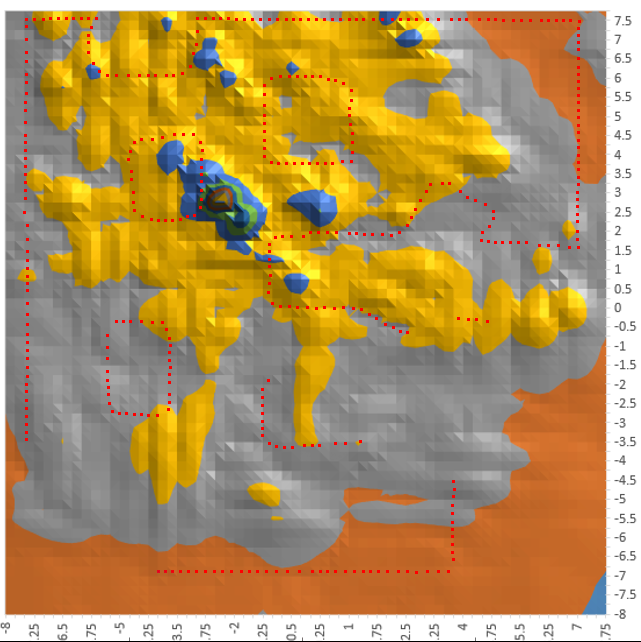
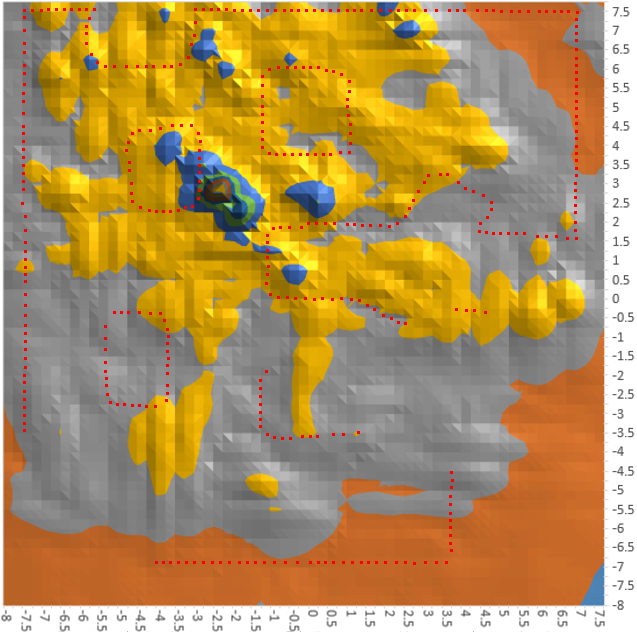
Fixed issues in images, re-structured report, fixes various issues in graphs

diff --git a/report/report.tex b/report/report.tex
@@ -52,15 +52,18 @@
 % \renewcommand*{\lstlistlistingname}{List of Listings}
 \lstlistoflistings
 \begin{itemize}
+	\item LiDar: Light Direction and Ranging (sensor)
 	\item ICP: Iterative Closest Point algorithm
 	\item NDT: Normal distribution transform
 	\item EA: Evolutionary Algorithm
+	\item GA: Genetic Algorithm
 	\item PSM: Polar Scan matching
 	\item HSM: histogram scan matching
 	\item PCA: Principal Component Analysis
 	\item GLASM: Genetic Lookup based Algorithm for Scan Matching
 	\item h-GLASM: Hybrid Genetic Lookup Based Algorithm for Scan Matching
 	\item DGA: Dynamic Genetic Algorithm
+
 	% TODO expand list of listings
 \end{itemize}
 
@@ -342,21 +345,50 @@ An existing GA by \citet{Robertson2002-ou} was adapted as a benchmark algorithm 
 \label{sec:fitness_landscape}
 The fitness function utilised by \citet{Robertson2002-ou} is a minimisation of the sum of the minimal distance of every point in the scan to its closest point in the reference map: $E = \sum_i |S_i-M_I|$ where S is a $(x,y)$ point in the scan and M is S's closest point in the map. This was altered for our benchmark algorithm; a function maximisation problem was defined instead, using $M = \frac{1}{1+E}$ as our new fitness function. This provides a more accentuated curve of fitness in the hope of improving the convergence capabilities of both the benchmark and new algorithm, in addition to adhering to the standard for GA's established by \citet{Eiben2015-de}.
 
-To ensure the fitness function's global maxima matches our scan location, the function was evaluated across a set of poses which blanket the map. The maximal fitness value at a given X/Y coordinate (across all tested rotations) was graphed in the charts below, demonstrating that the algorithm's peaks roughly matches the target pose for that scan (given the resolution of the set of poses); this demonstrates that the algorithm's fitness will be proportional to the pose's precision, and therefore should allow the GA to evolve towards the correct pose. This is visualised in \autoref{fig:landscape}, where scan110 was evaluated at various poses and angles, and the maximal fitness for any rotation at a position (x,y) was plotted.
+To ensure the fitness function's global maxima matches our scan location, the function was evaluated across a set of poses which blanket the map. The maximal fitness value at a given X/Y coordinate (across all tested rotations) was graphed in the charts below, demonstrating that the algorithm's peaks roughly matches the target pose for that scan (given the resolution of the set of poses); this demonstrates that the algorithm's fitness will be proportional to the pose's precision, and therefore should allow the GA to evolve towards the correct pose. This is visualised in \autoref{fig:landscape_overlay}, where scan110 was evaluated at various poses and angles, and the maximal fitness for any rotation at a position (x,y) was plotted. The presence of a single clear global optima across various scans in the dataset is demonstrated in \autoref{fig:landscapes}, where the same method was applied to a variety of other scans; these further demonstrate the matching of the scan's pose with the global maxima of the fitness landscape. 
 
 \begin{figure}[ht]
 \centering
-	\includegraphics[width=9cm,keepaspectratio]{images/landscape_overlay.png}
-	\caption{Fitness maxima corresponding to the position from where the scan was taken. The blue peaks mark areas with low error, where points in scan 110 and the map's points (in red) are closely coupled. (see \autoref{fig:scan110} for scan and pose positions)}
-	\label{fig:landscape}
+	\includegraphics[width=7cm,keepaspectratio]{images/landscape_overlay.png}
+	\caption{Overlay of the fitness landscape over the reference data map. The green-orange peak (at approx (-2,2.5)) mark areas with low error, where points in scan 110 and the map's points (in red) are closely coupled. (see \autoref{fig:scan110} for scan and pose positions)}
+	\label{fig:landscape_overlay}
 \end{figure}
+
+\begin{figure*}[ht]
+        \centering
+        \begin{subfigure}[b]{0.475\textwidth}
+            \centering
+            \includegraphics[width=\textwidth]{images/landscape18.png}
+            {{\small Scan 18}}    
+        \end{subfigure}
+        \hfill
+        \begin{subfigure}[b]{0.475\textwidth}  
+            \centering 
+            \includegraphics[width=\textwidth]{images/landscape110.png}
+            {{\small Scan 110}}    
+        \end{subfigure}
+        \vskip\baselineskip
+        \begin{subfigure}[b]{0.475\textwidth}   
+            \centering 
+            \includegraphics[width=\textwidth]{images/landscape115.png}
+            {{\small Scan 115}}    
+        \end{subfigure}
+        \quad
+        \begin{subfigure}[b]{0.475\textwidth}   
+            \centering 
+            \includegraphics[width=\textwidth]{images/landscape240.png}
+            {{\small Scan 240}}    
+        \end{subfigure}
+        \caption{Fitness landscapes for randomly selected scans in dataset.}
+        \label{fig:landscapes}
+\end{figure*}
 
 \section{Parameter optimisation}
 \subsection{Population \& Generations}
 As expected, allowing the algorithm to evolve a larger population with/or for a larger number of generations provides improvements to the fitness of the solution provided. However, these require an impractically large amount of computational power: as we can see in \autoref{fig:ga_pop_gen}, a simple evolution of 50 generations with a population of 50 requires an average 37 seconds, on a 16 core machine. As the computational power requirements increase linearly with the number of generations and population size, these would become prohibitively expensive to run in a real time environment. As such, evaluating algorithms using a small population and number of generations will also present a difficult challenge for algorithms, allowing the difference in convergence speeds to be accentuated, whilst also enabling us to run our experiments in a timely manner to compare algorithms. 
 \begin{figure}[ht]
 \centering
-	\includegraphics[width=\textwidth,keepaspectratio]{images/ga_pop_gen_sweep.png}
+	\includegraphics[width=0.4\textwidth,keepaspectratio]{images/ga_pop_gen_sweep.png}
 	\caption{Execution time of the benchmark GA using scan110 and various number of generations and population sizes. (see \autoref{fig:scan110} for scan and pose positions)}
 	\label{fig:ga_pop_gen}
 \end{figure}
@@ -367,7 +399,7 @@ The mutation and crossover probabilities for our benchmark were found using 60 p
 
 \begin{figure}[ht]
 \centering
-	\includegraphics[width=8cm,keepaspectratio]{images/ga_cxpb_mutpb.png}
+	\includegraphics[width=\textwidth,keepaspectratio]{images/ga_cxpb_mutpb.png}
 	\caption[Optimising cross and mutation rate for benchmark algorithm.]{Effects of crossover and mutation rates on the benchmark algorithm's execution time.}
 	\label{fig:ga_cxpb_mutpb}
 \end{figure}
@@ -390,12 +422,13 @@ The size of the mutation was defined as a random sample from a normal distributi
 	        xtick=data,
 	        % xticklabels from table={\datatableelitemutsize}{mutsize},
 	        xticklabel style={rotate=45},
-	        width  = 0.8\textwidth,
+	        width  = 0.6\textwidth,
 	        height = 3cm,
 	        ylabel = {Combined error},
 	        xlabel = {Squared variance of standard distribution from which step sizes are drawn.},
 	        ymin=0,
 	        xmin=0.2,
+	        xmax=2.2,
 	        ymajorgrids=true,
 	        % xmax=1.4,
 	        % grid=both,
@@ -423,7 +456,7 @@ The algorithm aims to achieve the goals defined here through a series of indepen
 
 \section{Elitism selection}
 \label{subsec:elitism_sel}
-As seen in the 3D charts of the fitness landscapes seen in \autoref{fig:landscape}, the fitness of our solutions evolve in a smooth landscape, generally with a significantly larger global maxima. We hypothesised that this would allow us to utilise highly convergent forms of GAs; this was on the assumption that our population was large enough to place one or more individuals in an area such that the individual's local maxima was the global maxima. This individual would then be more likely to have a higher fitness than the rest of the population (due to the smooth fitness landscape), and therefore a high rate of duplication and mutation would enable an evolution towards the global maxima. The concept is built on \citet{David_E_Goldberg1991-es}'s solution to balancing the conflict between exploration and exploitation through higher growth ratios followed by building block discovery through mutation; we however diverge from this by instead utilising mutation to optimise our current local maxima (i.e: block) and assume our initial population was sufficiently dense and spread across the map to find all local maximas.
+As seen in the 3D charts of the fitness landscapes seen in \autoref{fig:landscape_overlay}, the fitness of our solutions evolve in a smooth landscape, generally with a significantly larger global maxima. We hypothesised that this would allow us to utilise highly convergent forms of GAs; this was on the assumption that our population was large enough to place one or more individuals in an area such that the individual's local maxima was the global maxima. This individual would then be more likely to have a higher fitness than the rest of the population (due to the smooth fitness landscape), and therefore a high rate of duplication and mutation would enable an evolution towards the global maxima. The concept is built on \citet{David_E_Goldberg1991-es}'s solution to balancing the conflict between exploration and exploitation through higher growth ratios followed by building block discovery through mutation; we however diverge from this by instead utilising mutation to optimise our current local maxima (i.e: block) and assume our initial population was sufficiently dense and spread across the map to find all local maximas.
 	
 This represented a form of elitism, where the top n percentile of the population was retained at each generation and duplicated into offspring, which increase the genetic diversity via crossover or mutation according to a set probability. \citet{T_Back_D_B_Fogel_T_Michalewicz} and \citet{Shapiro1992-qm} describe an accurately similar algorithm known as the $(\mu + \lambda)$  algorithm.
 
@@ -559,7 +592,7 @@ This produced the data visible in \autoref{fig:ga_vs_elite_box_whiskers}; as we 
 \begin{figure}
 	\begin{tikzpicture}
 		\begin{axis}
-		[height=4cm, width=0.8\textwidth, ytick={1,2}, yticklabels={Elite, Benchmark}, xlabel={Combined error $\times$ execution time}]
+		[height=4cm, width=0.8\textwidth, ytick={1,2}, yticklabels={Elite, Benchmark}, xlabel={Combined error $\times$ execution time}, xmode=log]
 
 		\addplot+[
 			boxplot prepared={
@@ -604,12 +637,12 @@ We can also notice that the precision per time unit seems to increase as we prov
 	        % bar shift=0pt,
 	        grid=both,
 	        width  = \textwidth,
-	        height = 5cm,
+	        height = 8cm,
 	        ylabel = {Execution time $\times$ combined error},
 	        xlabel = {Real execution time (s)},
 	        % scaled y ticks = false,
 	        legend pos = north west,
-	        ymax=450,
+	        ymax=300,
 	        ymin=0,
 	    ]
 	    \addplot+[fill opacity=0.75] table [col sep=comma, x expr=\coordindex, y=elite_errortime, fill opacity=0.5] {data/ga_vs_elite/time_limited_buckets.csv};
@@ -625,9 +658,9 @@ We can also notice that the precision per time unit seems to increase as we prov
 	        xticklabels from table={\datatable}{bucket},
 	        xticklabel style={rotate=45, opacity=0.0},
 	        width  = \textwidth,
-	        height = 5cm,
+	        height = 8cm,
 	        ylabel = {Combined error},
-	        ymax=12,
+	        ymax=7.5,
 	        ymin=0,
 	    ]
 	    \addplot+table [col sep=comma, x expr=\coordindex, y=elite_error] {data/ga_vs_elite/time_limited_buckets.csv};
@@ -653,7 +686,7 @@ Whilst the benchmark algorithm has an equally large worst case, we can hypothesi
 
 \begin{figure}
 \centering
-	\includegraphics[width=4cm,keepaspectratio]{images/grid.png}
+	\includegraphics[width=8cm,keepaspectratio]{images/grid.png}
 	\caption{A grid based initial population}
 	\label{fig:grid_init}
 \end{figure}
@@ -748,35 +781,35 @@ We should additionally note that while the feature was envisioned using a grid-l
 \begin{figure}
 	\begin{tikzpicture}
 		\begin{axis}
-		[height=4cm, width=0.8\textwidth, ytick={1,2, 3}, yticklabels={Grid, Elite, Benchmark}, xlabel={Combined error $\times$ execution time}]
+		[height=4cm, width=0.8\textwidth, ytick={1,2, 3}, yticklabels={Grid, Elite, Benchmark}, xlabel={Combined error $\times$ execution time}, xmode=log]
 
 		\addplot+[
 			boxplot prepared={
 				median = 0.318204416,
-				upper quartile =  0.853609313,
-				lower quartile =  0.101603705,
 				upper whisker = 131.3713864,
 				lower whisker = 0.001041047,
+				upper quartile =  0.853609313,
+				lower quartile =  0.101603705,
 			},
 		] coordinates {};	
 
 		\addplot+[
 			boxplot prepared={
 				median = 1.833061726,
-				upper quartile =  63.10291318,
-				lower quartile =  0.247805344,
 				upper whisker =  1053.747935,
 				lower whisker = 0.00002342,
+				upper quartile =  63.10291318,
+				lower quartile =  0.247805344,
 			},
 		] coordinates {};
 
 		\addplot+[
 			boxplot prepared={
 				median = 12.96005,
-				upper quartile = 2191.115,
-				lower quartile = 0.000319,
-				upper whisker = 82.40675,
-				lower whisker = 2.282475,
+				upper whisker = 2191.115,
+				lower whisker = 0.000319,
+				upper quartile = 82.40675,
+				lower quartile = 2.282475,
 			},
 		] coordinates {};
 		\end{axis}
@@ -790,22 +823,8 @@ As such, 'primed' populations of individuals are hugely beneficial to the evolut
 
 
 
-% Evaluate over large dataset, measure success rate?
-
-\chapter{Experimental summary \& Conclusion}
-This report has examined the effects of elitist selection and population priming on the precision and computational time of genetic algorithms, within the context of indoor localisation using Cartesian data. Experiments detailing the variations in result accuracy, precision and computational efficiency were conducted using a feature-dense scan from \citet{Lenac2011-co}, providing a complex comparison between algorithms.
-
-\section{Elitist selection}
-As summarised in \autoref{fig:ga_vs_elite_bucket}, our first experiment showed that a large improvement in efficiency could be obtained from elitist algorithms when executing the algorithm for a larger number of generations than a low threshold; this allowed the poses to be sufficiently refined via incremental mutation. The elite algorithm was ineffective when unable to evolve for fewer generations, as the lack of a crossover mutation limited the distance covered by generation-iterative random walking. This could be amended by priming the population of individuals or utilising larger mutation sizes, as explored in the grid initialisation experiments and variable mutation rate experiment.
-
-\section{Grid-based initial populations}
-The grid-initialisation aimed to improve the global search of the elitist algorithm without significantly increasing the computational requirements of the algorithm. This was achieved by using a larger initial population of candidate poses, evenly distributed over the map. Following a single generation with this larger population, the subsequent evolution took place on the 50 best individuals from that generation (as selected by the fitness function). This resulted in an improved precision, as it increased the likelihood of an individual in the initial population being placed within close proximity of a global maxima (towards which it can mutate). In combination with a small increase in computational time, this lead to a more efficient algorithm across all execution times (as visible in \autoref{fig:grid_vs_elit}). We can safely assume that this would require slightly more memory, due to the increased codebase and larger initial population; this may impede it's implementation in resource-limited systems. 
-
-As previously cited in \autoref{subsec:ICP}, \citet{Censi2005-iv} states that it would be possible to apply a 'classical' algorithm to a global pose localisation problem by running it from a number of random poses. This would rely on the assumption that one of these random poses has a local maxima which is the global maxima; that is, it will be capable of using gradient ascent to refine it's pose, similarly to the methodology implemented by grid-based initialisation. However, ICP remains an extremely efficient algorithm, whilst the mutation-based refinement of a genetic algorithm is more similar to a random walk than a hill climbing algorithm. We have therefore opted to create a basic implementation of an ICP-based algorithm to demonstrate this.
-
-
 % TODO move to section prior to evaluation, improve description of ICP algorithm
-\subsection{ICP algorithm design \& evaluation}
+\chapter{ICP algorithm design \& evaluation}
 \label{subsec:icp_benchmark}
 An ICP algorithm \cite{Harry_undated-ea} was adapted for use with our grid-layout algorithm. It functioned by running 20 iterations of the ICP algorithm from 200 hypothetical poses laid across a grid on the map. The pose with the lowest error is then selected using the same error function used in the fitness metric for the GA's. This was executed 360 times to create a set of data comparable to the grid-based algorithm's dataset (which was created using 30 runs over 12 target durations), which was illustrated in \autoref{fig:icp_vs_grid_box_whiskers}. 
 
@@ -825,20 +844,20 @@ We will explore the reasons behind this gap in \autoref{sec:algorithm_limitation
 		\addplot+[
 			boxplot prepared={
 				median = 0.318204416,
-				upper quartile =  0.853609313,
-				lower quartile =  0.101603705,
 				upper whisker = 131.3713864,
 				lower whisker = 0.001041047,
+				upper quartile =  0.853609313,
+				lower quartile =  0.101603705,
 			},
 		] coordinates {};	
 
 		\addplot+[
 			boxplot prepared={
 				median = 1.236822,
-				upper quartile = 68.64869,
-				lower quartile = 0.001034,
-				upper whisker = 5.075329,
-				lower whisker = 0.110132,
+				upper whisker = 68.64869,
+				lower whisker = 0.001034,
+				upper quartile = 5.075329,
+				lower quartile = 0.110132,
 			},
 		] coordinates {};
 		\end{axis}
@@ -846,6 +865,23 @@ We will explore the reasons behind this gap in \autoref{sec:algorithm_limitation
 	\caption[Global-ICP performance against Grid Initialisation] {Performance of each algorithm over 30 executions for 12 time limits (note: x axis is logarithmic)}
 	\label{fig:icp_vs_grid_box_whiskers}
 \end{figure}
+
+
+% Evaluate over large dataset, measure success rate?
+
+\chapter{Experimental summary \& Conclusion}
+This report has examined the effects of elitist selection and population priming on the precision and computational time of genetic algorithms, within the context of indoor localisation using Cartesian data. Experiments detailing the variations in result accuracy, precision and computational efficiency were conducted using a feature-dense scan from \citet{Lenac2011-co}, providing a complex comparison between algorithms.
+
+\section{Elitist selection}
+As summarised in \autoref{fig:ga_vs_elite_bucket}, our first experiment showed that a large improvement in efficiency could be obtained from elitist algorithms when executing the algorithm for a larger number of generations than a low threshold; this allowed the poses to be sufficiently refined via incremental mutation. The elite algorithm was ineffective when unable to evolve for fewer generations, as the lack of a crossover mutation limited the distance covered by generation-iterative random walking. This could be amended by priming the population of individuals or utilising larger mutation sizes, as explored in the grid initialisation experiments and variable mutation rate experiment.
+
+\section{Grid-based initial populations}
+The grid-initialisation aimed to improve the global search of the elitist algorithm without significantly increasing the computational requirements of the algorithm. This was achieved by using a larger initial population of candidate poses, evenly distributed over the map. Following a single generation with this larger population, the subsequent evolution took place on the 50 best individuals from that generation (as selected by the fitness function). This resulted in an improved precision, as it increased the likelihood of an individual in the initial population being placed within close proximity of a global maxima (towards which it can mutate). In combination with a small increase in computational time, this lead to a more efficient algorithm across all execution times (as visible in \autoref{fig:grid_vs_elit}). We can safely assume that this would require slightly more memory, due to the increased codebase and larger initial population; this may impede it's implementation in resource-limited systems. 
+
+As previously cited in \autoref{subsec:ICP}, \citet{Censi2005-iv} states that it would be possible to apply a 'classical' algorithm to a global pose localisation problem by running it from a number of random poses. This would rely on the assumption that one of these random poses has a local maxima which is the global maxima; that is, it will be capable of using gradient ascent to refine it's pose, similarly to the methodology implemented by grid-based initialisation. However, ICP remains an extremely efficient algorithm, whilst the mutation-based refinement of a genetic algorithm is more similar to a random walk than a hill climbing algorithm. We have therefore opted to create a basic implementation of an ICP-based algorithm to demonstrate this.
+
+
+% TODO DISCUSS GRID-ICP
 
 
 
@@ -858,7 +894,7 @@ A number of issues could cause the under-performance of the genetic algorithms; 
 
 \subsection{Fitness function}
 \label{subsec:criticism_fitness_func}
-The fitness function may be a source of some inaccuracy. \autoref{fig:landscape_peaks} illustrate a high-granularity visualisation of the fitness functions observed in \autoref{fig:landscape} for scan110, demonstrating that the peak of the fitness function does not match the expected pose provided by the Player-Stage model used in \citet{Lenac2011-co}(-2.184327, 2.641909). Instead, a peak further to the north west is indicated by the concentric circles forming a summit. Therefore, we can assume a translation error is due to individuals being caused by the fitness function. This occurs across all 3 sampled tolerance sizes, suggesting it may be specific to this map, scan and pose.
+The fitness function may be a source of some inaccuracy. \autoref{fig:landscape_peaks} illustrate a high-granularity visualisation of the fitness functions observed in \autoref{fig:landscape_overlay} for scan110, demonstrating that the peak of the fitness function does not match the expected pose provided by the Player-Stage model used in \citet{Lenac2011-co}(-2.184327, 2.641909). Instead, a peak further to the north west is indicated by the concentric circles forming a summit. Therefore, we can assume a translation error is due to individuals being caused by the fitness function. This occurs across all 3 sampled tolerance sizes, suggesting it may be specific to this map, scan and pose.
 
 \begin{figure}
 \begin{subfigure}[b]{0.3\textwidth}
